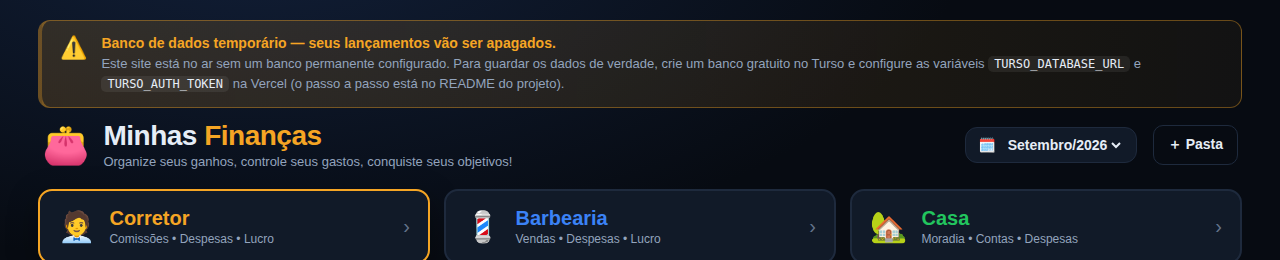
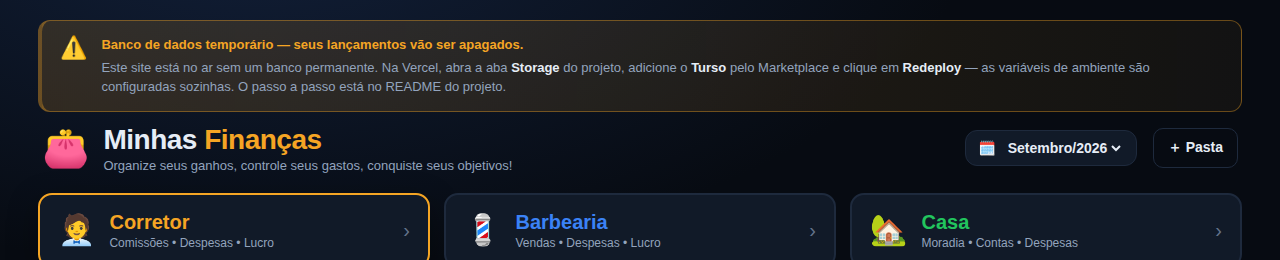
Simplifica a configuração do banco pelo Marketplace da Vercel
O Turso está disponível no Marketplace da própria Vercel, que provisiona o banco
e cadastra as variáveis de ambiente automaticamente. Isso dispensa criar conta
separada e usar a linha de comando, então o README passa a levar por esse
caminho e mantém a criação manual apenas como alternativa. Registra também que
Vercel KV e Vercel Postgres foram descontinuados, já que tutoriais antigos ainda
os mencionam.

Como o nome da variável injetada varia conforme a origem do banco, a seleção do
armazenamento passa a aceitar os nomes usuais (TURSO_DATABASE_URL, TURSO_URL,
LIBSQL_URL e DATABASE_URL, com os tokens correspondentes). DATABASE_URL só é
aceita quando aponta para libsql, para não confundir com uma URL de Postgres.

O texto do alerta de banco temporário passa a indicar a aba Storage, e corrige
a regra de CSS que transformava qualquer <b> do alerta em bloco e quebrava as
linhas do parágrafo.

Acrescenta 6 testes para a escolha do armazenamento, cobrindo os nomes de
variável aceitos, o modo temporário na Vercel e os valores que devem ser
ignorados. Suíte em 31 testes.

Claude-Session: https://claude.ai/code/session_01RonGKMiVgvk4kDSDGDsFZ6

diff --git a/tests/armazenamento.test.ts b/tests/armazenamento.test.ts
@@ -1,0 +1,66 @@
+import { afterEach, beforeEach, describe, expect, it, vi } from "vitest";
+
+/** Recarrega o módulo para que ele releia as variáveis de ambiente. */
+async function carregar() {
+  vi.resetModules();
+  return import("../api/_db.js");
+}
+
+const VARIAVEIS = [
+  "VERCEL", "FINANCAS_DB",
+  "TURSO_DATABASE_URL", "TURSO_URL", "LIBSQL_URL", "DATABASE_URL",
+  "TURSO_AUTH_TOKEN", "TURSO_TOKEN", "LIBSQL_AUTH_TOKEN", "DATABASE_AUTH_TOKEN",
+];
+
+beforeEach(() => {
+  for (const nome of VARIAVEIS) delete process.env[nome];
+});
+afterEach(() => {
+  for (const nome of VARIAVEIS) delete process.env[nome];
+});
+
+describe("escolha do armazenamento", () => {
+  it("na sua máquina, sem nada configurado, usa o arquivo local", async () => {
+    const bd = await carregar();
+    expect(bd.modoArmazenamento()).toBe("local");
+  });
+
+  it("na Vercel sem banco conectado, avisa que é temporário", async () => {
+    process.env.VERCEL = "1";
+    const bd = await carregar();
+    expect(bd.modoArmazenamento()).toBe("temporario");
+  });
+
+  it("reconhece o Turso pelos nomes de variável mais comuns", async () => {
+    for (const nome of ["TURSO_DATABASE_URL", "TURSO_URL", "LIBSQL_URL", "DATABASE_URL"]) {
+      for (const outro of VARIAVEIS) delete process.env[outro];
+      process.env.VERCEL = "1";
+      process.env[nome] = "libsql://controla-gastos.turso.io";
+      const bd = await carregar();
+      expect(bd.modoArmazenamento(), `variável ${nome}`).toBe("turso");
+    }
+  });
+
+  it("reconhece o token pelos nomes mais comuns", async () => {
+    for (const nome of ["TURSO_AUTH_TOKEN", "TURSO_TOKEN", "LIBSQL_AUTH_TOKEN"]) {
+      for (const outro of VARIAVEIS) delete process.env[outro];
+      process.env[nome] = "token-de-teste";
+      const bd = await carregar();
+      expect(bd.tokenRemoto(), `variável ${nome}`).toBe("token-de-teste");
+    }
+  });
+
+  it("ignora DATABASE_URL que não seja de SQLite (ex.: Postgres)", async () => {
+    process.env.VERCEL = "1";
+    process.env.DATABASE_URL = "postgres://usuario:senha@servidor/banco";
+    const bd = await carregar();
+    expect(bd.modoArmazenamento()).toBe("temporario");
+  });
+
+  it("ignora variável vazia", async () => {
+    process.env.VERCEL = "1";
+    process.env.TURSO_DATABASE_URL = "   ";
+    const bd = await carregar();
+    expect(bd.modoArmazenamento()).toBe("temporario");
+  });
+});

diff --git a/api/_db.ts b/api/_db.ts
@@ -15,13 +15,41 @@ export type ModoArmazenamento = "turso" | "local" | "temporario";
 
 const NA_VERCEL = Boolean(process.env.VERCEL);
 
+/**
+ * A integração do Turso pelo Marketplace da Vercel cadastra as variáveis sozinha,
+ * mas o nome pode variar conforme por onde o banco foi criado. Aceitamos os
+ * nomes usuais para você não precisar renomear nada no painel.
+ */
+const NOMES_URL = ["TURSO_DATABASE_URL", "TURSO_URL", "LIBSQL_URL", "DATABASE_URL"];
+const NOMES_TOKEN = ["TURSO_AUTH_TOKEN", "TURSO_TOKEN", "LIBSQL_AUTH_TOKEN", "DATABASE_AUTH_TOKEN"];
+
+function primeiraVariavel(nomes: string[]): string | undefined {
+  for (const nome of nomes) {
+    const valor = process.env[nome]?.trim();
+    if (valor) return valor;
+  }
+  return undefined;
+}
+
+/** URL do Turso, se houver uma configurada. DATABASE_URL só vale se for libsql. */
+function urlRemota(): string | undefined {
+  const url = primeiraVariavel(NOMES_URL);
+  if (!url) return undefined;
+  return /^(libsql|wss?|https?):\/\//.test(url) ? url : undefined;
+}
+
+export function tokenRemoto(): string | undefined {
+  return primeiraVariavel(NOMES_TOKEN);
+}
+
 export function modoArmazenamento(): ModoArmazenamento {
-  if (process.env.TURSO_DATABASE_URL) return "turso";
+  if (urlRemota()) return "turso";
   return NA_VERCEL ? "temporario" : "local";
 }
 
 function urlDoBanco(): string {
-  if (process.env.TURSO_DATABASE_URL) return process.env.TURSO_DATABASE_URL;
+  const remota = urlRemota();
+  if (remota) return remota;
   if (process.env.FINANCAS_DB) return `file:${process.env.FINANCAS_DB}`;
   // Sem Turso: /tmp na Vercel (temporário), arquivo do projeto na sua máquina.
   return NA_VERCEL ? "file:/tmp/financas.db" : "file:data/financas.db";
@@ -33,7 +61,7 @@ export function db(): Client {
   if (!cliente) {
     cliente = createClient({
       url: urlDoBanco(),
-      authToken: process.env.TURSO_AUTH_TOKEN,
+      authToken: tokenRemoto(),
     });
   }
   return cliente;

diff --git a/public/app.js b/public/app.js
@@ -142,11 +142,11 @@ function desenharAvisoArmazenamento() {
     <div class="faixa-alerta">
       <span class="ic">⚠</span>
       <div>
-        <b>Banco de dados temporário — seus lançamentos vão ser apagados.</b>
-        <span>Este site está no ar sem um banco permanente configurado. Para guardar os
-        dados de verdade, crie um banco gratuito no Turso e configure as variáveis
-        <code>TURSO_DATABASE_URL</code> e <code>TURSO_AUTH_TOKEN</code> na Vercel
-        (o passo a passo está no README do projeto).</span>
+        <span class="titulo">Banco de dados temporário — seus lançamentos vão ser apagados.</span>
+        <span>Este site está no ar sem um banco permanente. Na Vercel, abra a aba
+        <b>Storage</b> do projeto, adicione o <b>Turso</b> pelo Marketplace e clique em
+        <b>Redeploy</b> — as variáveis de ambiente são configuradas sozinhas. O passo a
+        passo está no README do projeto.</span>
       </div>
     </div>`;
 }

diff --git a/public/style.css b/public/style.css
@@ -43,7 +43,8 @@ a { color: var(--azul); }
   border-radius: 12px; padding: 14px 18px; margin-bottom: 4px;
 }
 .faixa-alerta .ic { font-size: 22px; line-height: 1.2; }
-.faixa-alerta b { display: block; color: var(--ambar); margin-bottom: 3px; }
+.faixa-alerta .titulo { display: block; color: var(--ambar); font-weight: 700; margin-bottom: 3px; }
+.faixa-alerta span b { color: var(--texto); }
 .faixa-alerta span { color: var(--texto-2); font-size: 13px; line-height: 1.5; }
 .faixa-alerta code {
   background: rgba(255, 255, 255, .07); padding: 1px 6px;

diff --git a/README.md b/README.md
@@ -19,16 +19,46 @@ plano de contas e relatórios. Feito em **TypeScript**, para rodar na **Vercel**
 
 ## Como colocar na Vercel
 
-O app roda na Vercel, mas com um detalhe importante: **a Vercel não guarda arquivos**.
-O disco lá é apagado a todo momento, então o banco não pode ser um arquivo — ele precisa
-ficar num serviço de banco de dados. Por isso o passo 1 abaixo não é opcional: sem ele o
-site sobe e funciona, mas apaga os seus lançamentos sozinho (e a tela avisa isso em
-laranja, bem grande).
+A Vercel não guarda arquivos: o disco dela é apagado a todo momento, então o banco não
+pode ser um arquivo dentro do projeto. Ele precisa ser um banco de dados de verdade — e
+você adiciona um **sem sair do painel da Vercel**, pelo Marketplace dela.
 
-### Passo 1 — criar o banco no Turso (gratuito, 2 minutos)
+### Passo 1 — subir o projeto
 
-O Turso é o próprio SQLite hospedado na nuvem. O plano gratuito é mais do que suficiente
-para uso pessoal.
+1. Em <https://vercel.com/new>, importe este repositório do GitHub.
+2. Não é preciso mudar nada nas configurações de build — o `vercel.json` já está pronto.
+3. Clique em **Deploy**.
+
+Nesse momento o site já sobe e funciona, mas mostra uma faixa laranja avisando que o
+banco é temporário. É o passo 2 que resolve isso.
+
+### Passo 2 — adicionar o banco pelo painel da Vercel
+
+O Turso é o próprio SQLite hospedado, e está no Marketplace da Vercel. Isso significa que
+você não precisa criar conta separada nem usar terminal:
+
+1. No projeto, abra a aba **Storage**.
+2. Clique em **Browse Marketplace** (ou *Create Database*) e escolha **Turso**.
+3. Crie o banco e conecte-o a este projeto.
+4. Volte em **Deployments** e clique em **Redeploy** no deploy mais recente.
+
+A Vercel provisiona a conta no Turso, conecta ao projeto e **cadastra sozinha** as
+variáveis de ambiente `TURSO_DATABASE_URL` e `TURSO_AUTH_TOKEN` — é por isso que não há
+nada para copiar e colar. O Redeploy é necessário porque variáveis novas só valem a
+partir do próximo deploy.
+
+Pronto. Na primeira vez que o site abrir, as tabelas e o plano de contas inicial são
+criados sozinhos.
+
+> **Se você procurar tutoriais antigos**, vai achar "Vercel KV" e "Vercel Postgres".
+> Esses produtos foram descontinuados: hoje todo banco de dados na Vercel vem pelo
+> Marketplace. Além do Turso, ele oferece Neon e Supabase (Postgres) e Upstash (Redis) —
+> mas esses exigiriam reescrever o SQL do projeto, enquanto o Turso é o mesmo SQLite.
+
+### Alternativa — criar o banco direto no Turso
+
+Se preferir gerenciar o banco fora da Vercel (ou se quiser usar a camada gratuita do
+Turso em vez do faturamento pela Vercel):
 
 1. Crie a conta em <https://turso.tech>.
 2. Instale a ferramenta de linha de comando e faça login:
@@ -36,40 +66,22 @@ para uso pessoal.
    curl -sSfL https://get.tur.so/install.sh | bash
    turso auth login
    ```
-3. Crie o banco e pegue os dois dados que a Vercel vai precisar:
+3. Crie o banco e pegue os dois dados:
    ```bash
    turso db create controla-gastos
    turso db show controla-gastos --url        # copie: libsql://...
    turso db tokens create controla-gastos     # copie: o token
    ```
-
-> Prefere sem terminal? Dá para criar o banco e gerar o token pelo painel do Turso, na
-> própria página do banco.
-
-### Passo 2 — subir o projeto
-
-1. Em <https://vercel.com/new>, importe este repositório do GitHub.
-2. Não é preciso mudar nada nas configurações de build — o `vercel.json` já está pronto.
-3. Antes de clicar em **Deploy**, abra **Environment Variables** e cadastre as duas:
-
-   | Nome | Valor |
-   | --- | --- |
-   | `TURSO_DATABASE_URL` | o `libsql://...` do passo 1 |
-   | `TURSO_AUTH_TOKEN` | o token do passo 1 |
-
-4. **Deploy**. Na primeira vez que o site abrir, as tabelas e o plano de contas inicial
-   são criados sozinhos.
-
-> Se você já tinha feito o deploy antes de cadastrar as variáveis, adicione-as em
-> *Settings → Environment Variables* e clique em **Redeploy**. Variáveis novas só valem
-> a partir do próximo deploy.
+4. Na Vercel, em *Settings → Environment Variables*, cadastre `TURSO_DATABASE_URL` e
+   `TURSO_AUTH_TOKEN` com esses valores, e clique em **Redeploy**.
 
 ### Se aparecer a faixa laranja de alerta
 
 ![Aviso de banco temporário](docs/aviso-banco-temporario.png)
 
-Significa que o app subiu **sem** as variáveis do Turso e está gravando num banco
-temporário. Faça o passo 1, cadastre as variáveis e clique em Redeploy.
+Significa que o app subiu **sem** o banco conectado e está gravando num banco
+temporário. Faça o passo 2 acima (aba **Storage** → Turso) e clique em **Redeploy**.
+A faixa some sozinha quando as variáveis estiverem no ar.
 
 ---
 
